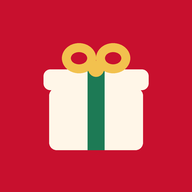
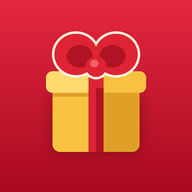
Nouvelle icône d'app : fond rouge plein cadre, cadeau doré (v0.05)
Claude-Session: https://claude.ai/code/session_01Qu7CnsYnytHFLLPUxnLugH

diff --git a/index.html b/index.html
@@ -8,8 +8,8 @@
   <meta name="apple-mobile-web-app-status-bar-style" content="black-translucent">
   <meta name="apple-mobile-web-app-title" content="Giftmas">
   <link rel="manifest" href="manifest.webmanifest">
-  <link rel="icon" href="icons/icon-192.png">
-  <link rel="apple-touch-icon" href="icons/apple-touch-icon.png">
+  <link rel="icon" href="icons/icon-192.png?v=2">
+  <link rel="apple-touch-icon" href="icons/apple-touch-icon.png?v=2">
   <link rel="preconnect" href="https://fonts.gstatic.com" crossorigin>
   <link rel="stylesheet" href="https://fonts.googleapis.com/css2?family=Fredoka:wght@500;600&display=swap">
   <link rel="stylesheet" href="style.css">

diff --git a/app.js b/app.js
@@ -8,7 +8,7 @@ const euro = (n) => (n == null ? '' : Number(n).toLocaleString('fr-FR', { style:
 const date = (d) => new Date(d).toLocaleDateString('fr-FR', { day: 'numeric', month: 'short', hour: '2-digit', minute: '2-digit' });
 const hue = (s) => [...s].reduce((h, c) => (h * 31 + c.charCodeAt(0)) % 360, 7);
 const appUrl = location.origin + location.pathname;
-const VERSION = 'v0.04';
+const VERSION = 'v0.05';
 let D; // toutes les données visibles
 let filter = localStorage.getItem('giftmas-filter') || '';
 
